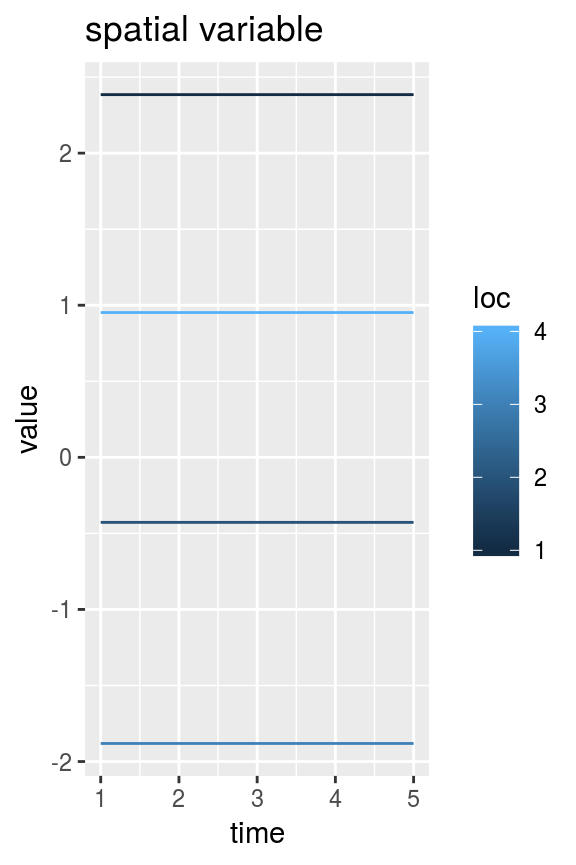
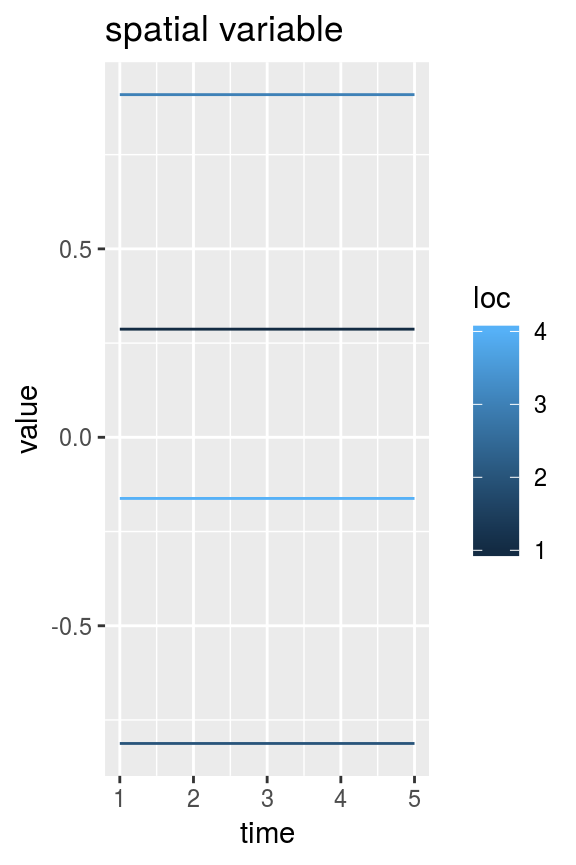
updated readme and vignette

diff --git a/docs/articles/swotlists.html b/docs/articles/swotlists.html
@@ -5,11 +5,11 @@
 <meta charset="utf-8">
 <meta http-equiv="X-UA-Compatible" content="IE=edge">
 <meta name="viewport" content="width=device-width, initial-scale=1.0">
-<title>SWOTlists • swotr</title>
+<title>swotlists • swotr</title>
 <!-- jquery --><script src="https://code.jquery.com/jquery-3.1.0.min.js" integrity="sha384-nrOSfDHtoPMzJHjVTdCopGqIqeYETSXhZDFyniQ8ZHcVy08QesyHcnOUpMpqnmWq" crossorigin="anonymous"></script><!-- Bootstrap --><link href="https://maxcdn.bootstrapcdn.com/bootstrap/3.3.7/css/bootstrap.min.css" rel="stylesheet" integrity="sha384-BVYiiSIFeK1dGmJRAkycuHAHRg32OmUcww7on3RYdg4Va+PmSTsz/K68vbdEjh4u" crossorigin="anonymous">
 <script src="https://maxcdn.bootstrapcdn.com/bootstrap/3.3.7/js/bootstrap.min.js" integrity="sha384-Tc5IQib027qvyjSMfHjOMaLkfuWVxZxUPnCJA7l2mCWNIpG9mGCD8wGNIcPD7Txa" crossorigin="anonymous"></script><!-- Font Awesome icons --><link href="https://maxcdn.bootstrapcdn.com/font-awesome/4.6.3/css/font-awesome.min.css" rel="stylesheet" integrity="sha384-T8Gy5hrqNKT+hzMclPo118YTQO6cYprQmhrYwIiQ/3axmI1hQomh7Ud2hPOy8SP1" crossorigin="anonymous">
 <!-- clipboard.js --><script src="https://cdnjs.cloudflare.com/ajax/libs/clipboard.js/1.7.1/clipboard.min.js" integrity="sha384-cV+rhyOuRHc9Ub/91rihWcGmMmCXDeksTtCihMupQHSsi8GIIRDG0ThDc3HGQFJ3" crossorigin="anonymous"></script><!-- sticky kit --><script src="https://cdnjs.cloudflare.com/ajax/libs/sticky-kit/1.1.3/sticky-kit.min.js" integrity="sha256-c4Rlo1ZozqTPE2RLuvbusY3+SU1pQaJC0TjuhygMipw=" crossorigin="anonymous"></script><!-- pkgdown --><link href="../pkgdown.css" rel="stylesheet">
-<script src="../pkgdown.js"></script><meta property="og:title" content="SWOTlists">
+<script src="../pkgdown.js"></script><meta property="og:title" content="swotlists">
 <meta property="og:description" content="">
 <meta name="twitter:card" content="summary">
 <!-- mathjax --><script src="https://mathjax.rstudio.com/latest/MathJax.js?config=TeX-AMS-MML_HTMLorMML"></script><!--[if lt IE 9]>
@@ -52,7 +52,7 @@
   </a>
   <ul class="dropdown-menu" role="menu">
 <li>
-      <a href="../articles/swotlists.html">SWOTlists</a>
+      <a href="../articles/swotlists.html">swotlists</a>
     </li>
   </ul>
 </li>
@@ -69,10 +69,10 @@
       </header><div class="row">
   <div class="col-md-9 contents">
     <div class="page-header toc-ignore">
-      <h1>SWOTlists</h1>
+      <h1>swotlists</h1>
                         <h4 class="author">Mark Hagemann</h4>
             
-            <h4 class="date">2018-07-11</h4>
+            <h4 class="date">2018-07-12</h4>
       
       
       <div class="hidden name"><code>swotlists.Rmd</code></div>
@@ -81,10 +81,15 @@
 
     
     
+<div id="swot-like-data" class="section level2">
+<h2 class="hasAnchor">
+<a href="#swot-like-data" class="anchor"></a>SWOT-like data</h2>
+<p><strong>swotr</strong> is a package for working with SWOT-like data. Broadly, this means data observed at discrete times and locations within a river or river network. Data do not need to come from satellite remote sensing in order to be SWOT-like; the term can include in-situ, model-output, or purely synthetic data. But the underlying motivation is the upcoming SWOT satellite mission, so satellite remote sensing of discharge and hydrologic paramters is the presumed purpose in <strong>swotr</strong>’s development.</p>
+</div>
 <div id="dawg-matrices" class="section level2">
 <h2 class="hasAnchor">
 <a href="#dawg-matrices" class="anchor"></a>DAWG matrices</h2>
-<p>SWOT-like datasets contain variables defined at specific points in time and space. The Discharge Algorithm Working Group (DAWG) has adopted the convention of formatting such data as space-down, time-across matrices. I will refer to such a space-down, time-across matrix as a DAWG matrix. <code>swotr</code> contains a handy function for plotting DAWG matrices; that function is <code>plot_DAWG</code>. For example, we can generate a random DAWG matrix indexed in 4 locations and 5 times as follows:</p>
+<p>SWOT-like datasets contain variables defined at specific points in time and space. The Discharge Algorithm Working Group (DAWG) has adopted the convention of formatting such data as space-down, time-across matrices. I will refer to such a space-down, time-across matrix as a DAWG matrix. <strong>swotr</strong> contains a handy function for plotting DAWG matrices; that function is <code>plot_DAWG</code>. For example, we can generate a random DAWG matrix indexed in 4 locations and 5 times as follows:</p>
 <div class="sourceCode"><pre class="sourceCode r"><code class="sourceCode r"><span class="kw">library</span>(dplyr)
 <span class="co">#&gt; </span>
 <span class="co">#&gt; Attaching package: 'dplyr'</span>
@@ -115,36 +120,36 @@ space_mat &lt;-<span class="st"> </span><span class="kw"><a href="../reference/s
 <div id="swotlists" class="section level2">
 <h2 class="hasAnchor">
 <a href="#swotlists" class="anchor"></a>swotlists</h2>
-<p>A swotlist is essentially a named list of DAWG matrices. This is not a formal object class and is flexible as to what variables it contains. It’s just a kind of list that many <code>swotr</code> functions take as input. For example, the following is a perfectly valid swotlist.</p>
+<p>A swotlist is essentially a named list of DAWG matrices. This is not a formal object class and is flexible as to what variables it contains. It’s just a kind of list that many <strong>swotr</strong> functions take as input. For example, the following is a perfectly valid swotlist.</p>
 <div class="sourceCode"><pre class="sourceCode r"><code class="sourceCode r">list1 &lt;-<span class="st"> </span><span class="kw">list</span>(<span class="dt">var1 =</span> mat1, <span class="dt">var2 =</span> mat1 <span class="op">+</span><span class="st"> </span><span class="kw">rnorm</span>(<span class="dv">20</span>))</code></pre></div>
 <p>The <code>swot_plot</code> function plots all variables (or optionally a subset thereof) within a swotlist.</p>
 <div class="sourceCode"><pre class="sourceCode r"><code class="sourceCode r"><span class="kw"><a href="../reference/swot_plot.html">swot_plot</a></span>(list1)</code></pre></div>
 <p><img src="swotlists_files/figure-html/unnamed-chunk-4-1.png" width="576"></p>
 <p>A swotlist is a compact, flexible, and easily accessible way of storing SWOT-like data. But it is limited in that it can only contain matrices with the same dimensions as one another. Thanks to easy matrix representation of vectors (via <code>swot_vec2mat</code>) swotlists can represent a surprising variety of variables.</p>
-<p>Although there’s no requirement to what a swotlist can contain, some <code>swotr</code> functions (and other functions that may be added to swotr or released in a companion package in the future) expect certain DAWG matrices to be present.</p>
+<p>Although there’s no requirement to what variables a swotlist can contain, some <strong>swotr</strong> functions (and other functions that may be added to swotr or released in a companion package in the future) expect certain DAWG matrices to be present.</p>
 </div>
 <div id="tidying-and-untidying-swotlists" class="section level2">
 <h2 class="hasAnchor">
 <a href="#tidying-and-untidying-swotlists" class="anchor"></a>Tidying and untidying swotlists</h2>
-<p>Although a handy data format, swotlists are not perfect for using with many R utilities that expect <code>data.frame</code>s and related “tidy” tabular data representations. (See <a href="https://www.tidyverse.org/">the tidyverse</a> for some examples of how tidiness has permeated the R ecosystem.) <code>swotr</code> has two functions for switching between swotlist representation and tidy representation of SWOT-like data. To turn a swotlist into a tidy <code>data.frame</code>, use <code>swot_tidy</code>.</p>
+<p>Although a handy data format, swotlists are not perfect for using with many R utilities that expect <code>data.frame</code>s and related <a href="http://vita.had.co.nz/papers/tidy-data.pdf">“tidy”</a> tabular data representations. (See <a href="https://www.tidyverse.org/">the tidyverse</a> for some examples of how tidiness has permeated the R ecosystem.) <strong>swotr</strong> has two functions for switching between swotlist representation and tidy representation of SWOT-like data. To turn a swotlist into a tidy <code>data.frame</code>, use <code>swot_tidy</code>.</p>
 <div class="sourceCode"><pre class="sourceCode r"><code class="sourceCode r">tidydf1 &lt;-<span class="st"> </span><span class="kw"><a href="../reference/swot_tidy.html">swot_tidy</a></span>(list1)
 <span class="kw">str</span>(tidydf1)
 <span class="co">#&gt; 'data.frame':    20 obs. of  4 variables:</span>
-<span class="co">#&gt;  $ var1: num  -1.9003 0.3555 -1.3317 -0.0821 0.6752 ...</span>
-<span class="co">#&gt;  $ var2: num  0.393 0.66 -1.006 1.973 2.086 ...</span>
+<span class="co">#&gt;  $ var1: num  -0.132 0.827 -0.687 -1.542 -0.231 ...</span>
+<span class="co">#&gt;  $ var2: num  0.539 1.468 0.385 -1.618 0.236 ...</span>
 <span class="co">#&gt;  $ time: int  1 1 1 1 2 2 2 2 3 3 ...</span>
 <span class="co">#&gt;  $ loc : int  1 2 3 4 1 2 3 4 1 2 ...</span></code></pre></div>
 <p>To go back to the original swotlist for, use <code>swot_untidy</code>.</p>
 <div class="sourceCode"><pre class="sourceCode r"><code class="sourceCode r"><span class="kw">str</span>(<span class="kw"><a href="../reference/swot_untidy.html">swot_untidy</a></span>(tidydf1))
 <span class="co">#&gt; List of 2</span>
-<span class="co">#&gt;  $ var1: num [1:4, 1:5] -1.9003 0.3555 -1.3317 -0.0821 0.6752 ...</span>
-<span class="co">#&gt;  $ var2: num [1:4, 1:5] 0.393 0.66 -1.006 1.973 2.086 ...</span></code></pre></div>
-<p><code>swot_tidy</code> is used under the hood for many of <code>swotr</code>’s plotting functions (and some other functions), since ggplot2 takes a <code>data.frame</code> as input.</p>
+<span class="co">#&gt;  $ var1: num [1:4, 1:5] -0.132 0.827 -0.687 -1.542 -0.231 ...</span>
+<span class="co">#&gt;  $ var2: num [1:4, 1:5] 0.539 1.468 0.385 -1.618 0.236 ...</span></code></pre></div>
+<p><code>swot_tidy</code> is used under the hood for many of <strong>swotr</strong>’s plotting functions (and some other functions), since ggplot2 takes a <code>data.frame</code> as input.</p>
 </div>
 <div id="netcdfs" class="section level2">
 <h2 class="hasAnchor">
 <a href="#netcdfs" class="anchor"></a>netcdfs</h2>
-<p><code>swotr</code> contains functions to make reading SWOT-like netcdf files easy. But in order to use these you’ll need to have the <code>ncdf4</code> package installed. This in turn requires that you have the netcdf library installed on your computer.</p>
+<p><strong>swotr</strong> contains functions to make reading SWOT-like netcdf files easy. But in order to use these you’ll need to have the <code>ncdf4</code> package installed. This in turn requires that you have the netcdf library installed on your computer.</p>
 <p>The <code>nc_list</code> function reads all data from a netcdf file into a single list.</p>
 <div class="sourceCode"><pre class="sourceCode r"><code class="sourceCode r">ncfile &lt;-<span class="st"> </span><span class="kw">system.file</span>(<span class="st">"extdata"</span>, <span class="st">"SacramentoDownstream.nc"</span>, <span class="dt">package =</span> <span class="st">"swotr"</span>)
 
@@ -229,12 +234,12 @@ saclist7 &lt;-<span class="st"> </span><span class="kw"><a href="../reference/sw
 <div id="da-operations" class="section level2">
 <h2 class="hasAnchor">
 <a href="#da-operations" class="anchor"></a>dA operations</h2>
-<p><code>swotr</code> contains a few functions for working with partial cross-sectional area (<code>dA</code>) observations.</p>
+<p><strong>swotr</strong> contains a few functions for working with partial cross-sectional area (<code>dA</code>) observations.</p>
 <p>First, <code>dA</code> can be calculated from height and width observations via <code>calcdA_vec</code> (for single-location vectors) and <code>calcdA_mat</code> (for DAWG matrices). <strong><em>Note that the summation-as-integration method used by these functions is not robust to height and width measurement error and should be used with this imprecision in mind.</em></strong></p>
 <div class="sourceCode"><pre class="sourceCode r"><code class="sourceCode r">dAmat &lt;-<span class="st"> </span><span class="kw"><a href="../reference/calcdA_mat.html">calcdA_mat</a></span>(<span class="dt">w =</span> saclist2<span class="op">$</span>W, <span class="dt">h =</span> saclist2<span class="op">$</span>H)
 <span class="kw"><a href="../reference/plot_DAWG.html">plot_DAWG</a></span>(dAmat)</code></pre></div>
 <p><img src="swotlists_files/figure-html/unnamed-chunk-17-1.png" width="576"></p>
-<p>Since the zero reference of <code>dA</code> is arbitrary, <code>swotr</code>’s dA-related functions include an argument specifying where to set <code>dA = 0</code>. Options are “first” for the first observation in time (this is typically the default), “minimum” or “median”. Existing DAWG matrices of <code>dA</code> can have their zero point adjusted via <code>rezero_dA</code>.</p>
+<p>Since the zero reference of <code>dA</code> is arbitrary, <strong>swotr</strong>’s dA-related functions include an argument specifying where to set <code>dA = 0</code>. Options are “first” for the first observation in time (this is typically the default), “minimum” or “median”. Existing DAWG matrices of <code>dA</code> can have their zero point adjusted via <code>rezero_dA</code>.</p>
 <div class="sourceCode"><pre class="sourceCode r"><code class="sourceCode r"><span class="kw"><a href="../reference/plot_DAWG.html">plot_DAWG</a></span>(<span class="kw"><a href="../reference/rezero_dA.html">rezero_dA</a></span>(dAmat, <span class="dt">zer =</span> <span class="st">"minimum"</span>))
 <span class="kw"><a href="../reference/plot_DAWG.html">plot_DAWG</a></span>(<span class="kw"><a href="../reference/rezero_dA.html">rezero_dA</a></span>(dAmat, <span class="dt">zer =</span> <span class="st">"median"</span>))</code></pre></div>
 <p><img src="swotlists_files/figure-html/unnamed-chunk-18-1.png" width="288"><img src="swotlists_files/figure-html/unnamed-chunk-18-2.png" width="288"></p>
@@ -246,7 +251,7 @@ saclist7 &lt;-<span class="st"> </span><span class="kw"><a href="../reference/sw
 <div id="interfacing-with-bamr" class="section level2">
 <h2 class="hasAnchor">
 <a href="#interfacing-with-bamr" class="anchor"></a>Interfacing with bamr</h2>
-<p>The <code>swotr</code> package is designed to interface with the <a href="http://github.com/markwh/bamr">bamr</a> package for estimation of flow-law parameters and discharge. To turn a swotlist into a <code>bamdata</code> object, use swot_bamdata:</p>
+<p>The <strong>swotr</strong> package is designed to interface with the <a href="http://github.com/markwh/bamr">bamr</a> package for estimation of flow-law parameters and discharge. To turn a swotlist into a <code>bamdata</code> object, use swot_bamdata:</p>
 <div class="sourceCode"><pre class="sourceCode r"><code class="sourceCode r"><span class="kw">library</span>(bamr)
 sacbd &lt;-<span class="st"> </span><span class="kw"><a href="../reference/swot_bamdata.html">swot_bamdata</a></span>(saclist3)
 sac_est &lt;-<span class="st"> </span><span class="kw"><a href="http://www.rdocumentation.org/packages/bamr/topics/bam_estimate">bam_estimate</a></span>(sacbd, <span class="dt">variant =</span> <span class="st">"manning"</span>, <span class="dt">iter =</span> <span class="dv">2000</span>)
@@ -261,7 +266,8 @@ sac_est &lt;-<span class="st"> </span><span class="kw"><a href="http://www.rdocu
       <h2 class="hasAnchor">
 <a href="#tocnav" class="anchor"></a>Contents</h2>
       <ul class="nav nav-pills nav-stacked">
-<li><a href="#dawg-matrices">DAWG matrices</a></li>
+<li><a href="#swot-like-data">SWOT-like data</a></li>
+      <li><a href="#dawg-matrices">DAWG matrices</a></li>
       <li><a href="#swotlists">swotlists</a></li>
       <li><a href="#tidying-and-untidying-swotlists">Tidying and untidying swotlists</a></li>
       <li><a href="#netcdfs">netcdfs</a></li>

diff --git a/docs/index.html b/docs/index.html
@@ -55,7 +55,7 @@
   </a>
   <ul class="dropdown-menu" role="menu">
 <li>
-      <a href="articles/swotlists.html">SWOTlists</a>
+      <a href="articles/swotlists.html">swotlists</a>
     </li>
   </ul>
 </li>
@@ -71,17 +71,18 @@
       
       </header><div class="row">
   <div class="contents col-md-9">
-    <div id="tools-for-working-with-swot-like-data-in-r" class="section level1">
+    <div id="swotr" class="section level1">
 <div class="page-header"><h1 class="hasAnchor">
-<a href="#tools-for-working-with-swot-like-data-in-r" class="anchor"></a>Tools for working with SWOT-like data in R</h1></div>
+<a href="#swotr" class="anchor"></a>swotr</h1></div>
 <p><img src="https://raw.githubusercontent.com/markwh/swotr/master/logo/logo.png" width="200" alt="Swotr Logo"></p>
-<p>Install as follows:</p>
+<p><strong>swotr</strong> is a package for working with SWOT-like remote-sensed river data (or similar) in R. Broadly, this means data observed at discrete times and locations within a river or river network. Data do not need to come from satellite remote sensing in order to be SWOT-like; the term can include in-situ, model-output, or purely synthetic data. But the underlying motivation is the upcoming SWOT satellite mission, so satellite remote sensing of discharge and hydrologic paramters is the presumed purpose in <strong>swotr</strong>’s conception and development.</p>
+<p><strong>Documentation</strong> including <a href="https://markwh.github.io/swotr/reference/index.html">function reference</a> and a <a href="https://markwh.github.io/swotr/articles/swotlists.html">tutorial vignette</a> can be found at the <a href="https://markwh.github.io/swotr/index.html">swotr website</a>.</p>
+<p><strong>Install</strong> as follows:</p>
 <pre><code>if (!require(devtools)) {
   install.packages("devtools")
-  library(devtools)
 }
 
-install_github("markwh/swotr")</code></pre>
+devtools::install_github("markwh/swotr")</code></pre>
 </div>
   </div>
 

diff --git a/docs/articles/index.html b/docs/articles/index.html
@@ -81,7 +81,7 @@
   </a>
   <ul class="dropdown-menu" role="menu">
     <li>
-      <a href="../articles/swotlists.html">SWOTlists</a>
+      <a href="../articles/swotlists.html">swotlists</a>
     </li>
   </ul>
 </li>
@@ -109,7 +109,7 @@
       <p class="section-desc"></p>
 
       <ul>
-        <li><a href="swotlists.html">SWOTlists</a></li>
+        <li><a href="swotlists.html">swotlists</a></li>
       </ul>
     </div>
   </div>

diff --git a/docs/reference/calcdA_mat.html b/docs/reference/calcdA_mat.html
@@ -84,7 +84,7 @@
   </a>
   <ul class="dropdown-menu" role="menu">
     <li>
-      <a href="../articles/swotlists.html">SWOTlists</a>
+      <a href="../articles/swotlists.html">swotlists</a>
     </li>
   </ul>
 </li>

diff --git a/docs/reference/calcdA_vec.html b/docs/reference/calcdA_vec.html
@@ -84,7 +84,7 @@
   </a>
   <ul class="dropdown-menu" role="menu">
     <li>
-      <a href="../articles/swotlists.html">SWOTlists</a>
+      <a href="../articles/swotlists.html">swotlists</a>
     </li>
   </ul>
 </li>

diff --git a/docs/reference/hello.html b/docs/reference/hello.html
@@ -84,7 +84,7 @@
   </a>
   <ul class="dropdown-menu" role="menu">
     <li>
-      <a href="../articles/swotlists.html">SWOTlists</a>
+      <a href="../articles/swotlists.html">swotlists</a>
     </li>
   </ul>
 </li>

diff --git a/docs/reference/index.html b/docs/reference/index.html
@@ -81,7 +81,7 @@
   </a>
   <ul class="dropdown-menu" role="menu">
     <li>
-      <a href="../articles/swotlists.html">SWOTlists</a>
+      <a href="../articles/swotlists.html">swotlists</a>
     </li>
   </ul>
 </li>

diff --git a/docs/reference/nc_list.html b/docs/reference/nc_list.html
@@ -84,7 +84,7 @@
   </a>
   <ul class="dropdown-menu" role="menu">
     <li>
-      <a href="../articles/swotlists.html">SWOTlists</a>
+      <a href="../articles/swotlists.html">swotlists</a>
     </li>
   </ul>
 </li>

diff --git a/docs/reference/nc_reach.html b/docs/reference/nc_reach.html
@@ -87,7 +87,7 @@
   </a>
   <ul class="dropdown-menu" role="menu">
     <li>
-      <a href="../articles/swotlists.html">SWOTlists</a>
+      <a href="../articles/swotlists.html">swotlists</a>
     </li>
   </ul>
 </li>

diff --git a/docs/reference/plot_DAWG.html b/docs/reference/plot_DAWG.html
@@ -84,7 +84,7 @@
   </a>
   <ul class="dropdown-menu" role="menu">
     <li>
-      <a href="../articles/swotlists.html">SWOTlists</a>
+      <a href="../articles/swotlists.html">swotlists</a>
     </li>
   </ul>
 </li>

diff --git a/docs/reference/realA0.html b/docs/reference/realA0.html
@@ -84,7 +84,7 @@
   </a>
   <ul class="dropdown-menu" role="menu">
     <li>
-      <a href="../articles/swotlists.html">SWOTlists</a>
+      <a href="../articles/swotlists.html">swotlists</a>
     </li>
   </ul>
 </li>

diff --git a/docs/reference/rezero_dA.html b/docs/reference/rezero_dA.html
@@ -84,7 +84,7 @@
   </a>
   <ul class="dropdown-menu" role="menu">
     <li>
-      <a href="../articles/swotlists.html">SWOTlists</a>
+      <a href="../articles/swotlists.html">swotlists</a>
     </li>
   </ul>
 </li>
